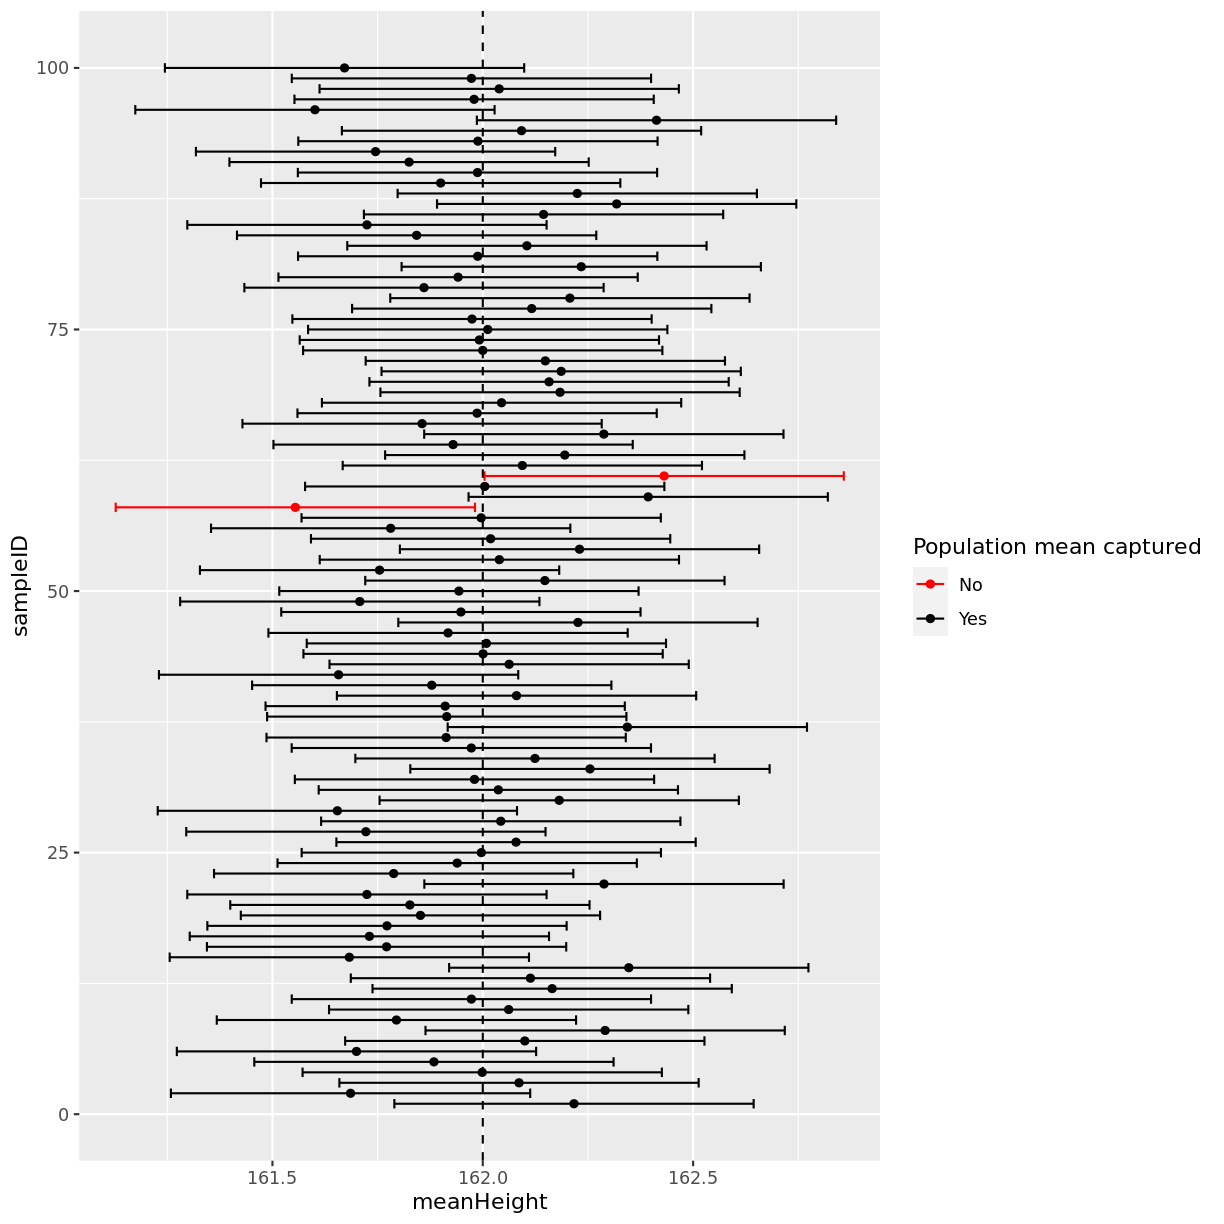
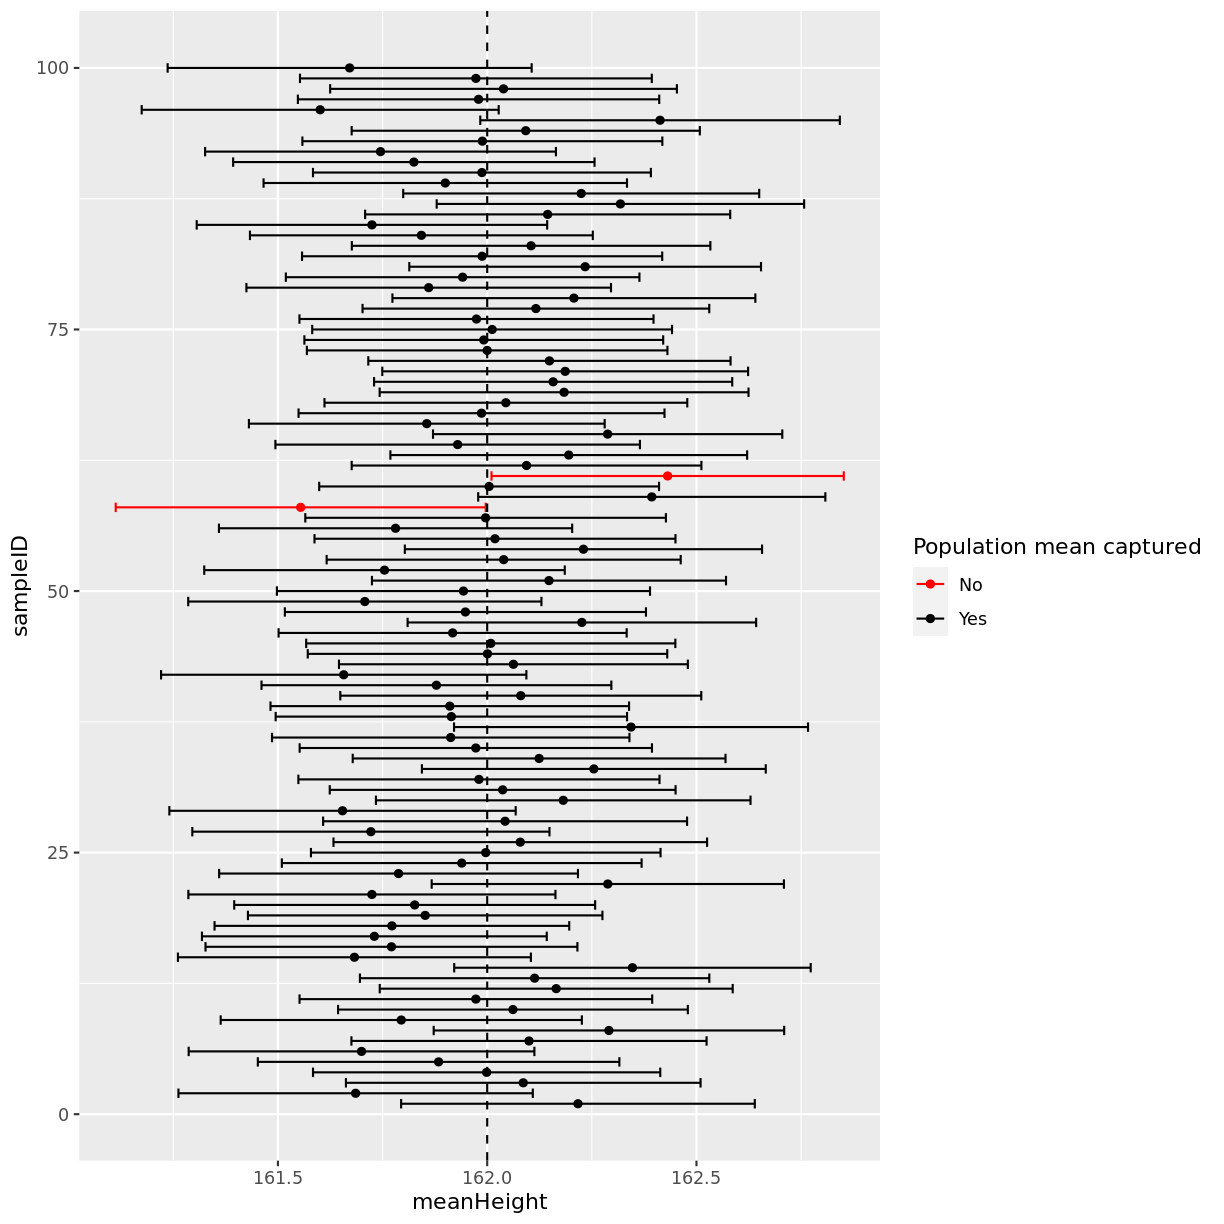
resolve issue #15

diff --git a/_episodes/02-estimation.md b/_episodes/02-estimation.md
@@ -78,8 +78,10 @@ we cannot know for sure.
 
 Let's take a look at how we can calculate the 95% confidence interval in R.
 First, we sample 1000 observations of female heights and calculate the mean, 
-as in the previous episode. Then, we calculate the standard error as the
-standard deviation divided by the square root of the sample size.
+as in the previous episode. Then, we calculate the standard error as the standard
+deviation divided by the square root of the sample size. Note the use of the 
+`sd()` function, which returns the standard deviation 
+(rather than the manual calculation used in the previous episode).
 Finally, the 95% confidence interval is given by the mean +/- 1.96
 times the standard error. Note that your CI will differ slightly from the
 one shown below, as `rnorm()` obtains random samples. 
@@ -92,7 +94,7 @@ sample <- tibble(heights = rnorm(1000, mean = 162, sd = 6.89))
 
 meanHeight <- mean(sample$heights)
 
-seHeight <- 6.89/sqrt(1000)
+seHeight <- sd(sample$heights)/sqrt(1000)
 
 CI <- c(meanHeight - 1.96 * seHeight, meanHeight + 1.96 * seHeight)
 CI
@@ -102,7 +104,7 @@ CI
 
 
 ~~~
-[1] 161.7898 162.6439
+[1] 161.7944 162.6394
 ~~~
 {: .output}
 
@@ -115,11 +117,8 @@ that do not capture the population mean.
 
 > ## Exercise
 > A) Given the distribution of systolic blood pressure, with a mean of 112 mmHg
-> and a standard deviation of 10 mmHg, calculate the standard error of a mean
-> estimate coming from a sample of 2000 observations. How do we interpret this
-> value?  
-> B) Using a random sample of 2000 observations from this distribution, estimate
-> the mean systolic blood pressure and provide a 95% confidence interval for this
+> and a standard deviation of 10 mmHg, obtain a random sample of 2000 observations.  
+> B) Estimate the mean systolic blood pressure and provide a 95% confidence interval for this
 > estimate. How do we interpret this interval?
 > 
 > > ## Solution
@@ -129,33 +128,18 @@ that do not capture the population mean.
 > > neighbour to compare results! If you are working through this episode
 > > independently, try running your code again to see how the results differ.
 > > 
-> > A) The standard error equals the standard deviation divided by the square root
-> > of the sample size. We expect the difference between the estimated mean
-> > and the population mean to equal 0.22 mmHg, on average. 
-> > 
-> > ~~~
-> > seBP <- 10/sqrt(2000)
-> > seBP
-> > ~~~
-> > {: .language-r}
-> > 
-> > 
-> > 
-> > ~~~
-> > [1] 0.2236068
-> > ~~~
-> > {: .output}
-> > 
-> > B) We simulate using `rnorm()`, calculate the mean using `mean()` and calculate
-> > the confidence interval as the mean +- 1.96 times the standard error. Since
-> > 95% of 95% confidence intervals are expected to contain the true population mean, we are
-> > fairly confident that the interval that we have calculated contains the true
-> > population mean (but we are not sure, as 5% of 95% confidence intervals 
-> > are not expected to contain the true population mean).
+> > A)   
 > > 
 > > ~~~
 > > sample <- tibble(bloodPressure = rnorm(2000, mean = 112, sd = 10))
+> > ~~~
+> > {: .language-r}
+> > 
+> > B) 
+> > 
+> > ~~~
 > > meanBP <- mean(sample$bloodPressure)
+> > seBP <- sd(sample$bloodPressure)/sqrt(2000)
 > > 
 > > CI <- c(meanBP - 1.96 * seBP, meanBP + 1.96 * seBP)
 > > CI
@@ -165,7 +149,7 @@ that do not capture the population mean.
 > > 
 > > 
 > > ~~~
-> > [1] 111.3961 112.2727
+> > [1] 111.3997 112.2691
 > > ~~~
 > > {: .output}
 > > The confidence interval has lower bound 111.4 and upper bound
@@ -183,8 +167,8 @@ action, by simulating 100 data sets of 1000 female heights.
 
 First, we create a tibble for our means and confidence intervals.
 We name this tibble `means` and create empty columns for the sample IDs,
-mean heights, the lower bound of the confidence intervals and the upper
-bound of the confidence intervals. 
+mean heights, standard errors, the lower bound of the confidence intervals 
+and the upper bound of the confidence intervals. 
 
 
 
@@ -192,23 +176,16 @@ bound of the confidence intervals.
 ~~~
 means <- tibble(sampleID = numeric(),
                meanHeight = numeric(),
+               seHeight = numeric(),
                lower_CI = numeric(),
                upper_CI = numeric())
-~~~
-{: .language-r}
-
-Then, we calculate the standard error using the standard deviation and the sample size.
-
-
-~~~
-seHeight <- 6.89/sqrt(1000)
 ~~~
 {: .language-r}
 
 We simulate the Heights data using a `for` loop. This gives us 100 iterations,
 in which samples are drawn as before using `rnorm()`. For each sample, 
 we add a row to our `means` tibble using `add_row()`. We include an ID for the
-sample, the mean Height and the bounds of the 95% confidence interval. 
+sample, the mean Height, the standard error and the bounds of the 95% confidence interval. 
 
 
 ~~~
@@ -218,8 +195,9 @@ for(i in 1:100){
  means <- means %>%
    add_row(sampleID = i,
            meanHeight = mean(sample$heights),
-           lower_CI = mean(sample$heights) - 1.96 * seHeight,
-           upper_CI = mean(sample$heights) + 1.96 * seHeight)
+           seHeight = sd(sample$heights)/sqrt(1000),
+           lower_CI = meanHeight - 1.96 * seHeight,
+           upper_CI = meanHeight + 1.96 * seHeight)
 }
 ~~~
 {: .language-r}
@@ -264,8 +242,8 @@ intervals will not capture the population mean.
 > ## Exercise
 > A) Given the distribution of systolic blood pressure, with a mean of 112 mmHg
 > and a standard deviation of 10 mmHg, simulate 100 data sets of 2000 observations
-> each. For each sample, store the sample ID, mean systolic blood pressure and the 
-> 95% confidence interval in a tibble.  
+> each. For each sample, store the sample ID, mean systolic blood pressure,
+> the standard error and the 95% confidence interval in a tibble.  
 > B) Create an extra column in the tibble, indicating for each confidence
 > interval whether the original mean of 112 mmHg was captured.  
 > C) Plot the mean values and their 95% confidence intervals. Add a line to show the population mean. How
@@ -287,10 +265,10 @@ intervals will not capture the population mean.
 > > ~~~
 > > means <- tibble(sampleID = numeric(),
 > >                 meanBP = numeric(),
+> >                 seBP = numeric(),
 > >                 lower_CI = numeric(),
 > >                 upper_CI = numeric())
 > > 
-> > seBP <- 10/sqrt(2000)
 > > 
 > > for(i in 1:100){
 > >   
@@ -300,8 +278,9 @@ intervals will not capture the population mean.
 > >   means <- means %>%
 > >     add_row(sampleID = i,
 > >             meanBP = mean(sample$bloodPressure),
-> >             lower_CI = mean(sample$bloodPressure) - 1.96 * seBP,
-> >             upper_CI = mean(sample$bloodPressure) + 1.96 * seBP)
+> >             seBP = sd(sample$bloodPressure)/sqrt(2000),
+> >             lower_CI = meanBP - 1.96 * seBP,
+> >             upper_CI = meanBP + 1.96 * seBP)
 > > }
 > > ~~~
 > > {: .language-r}
